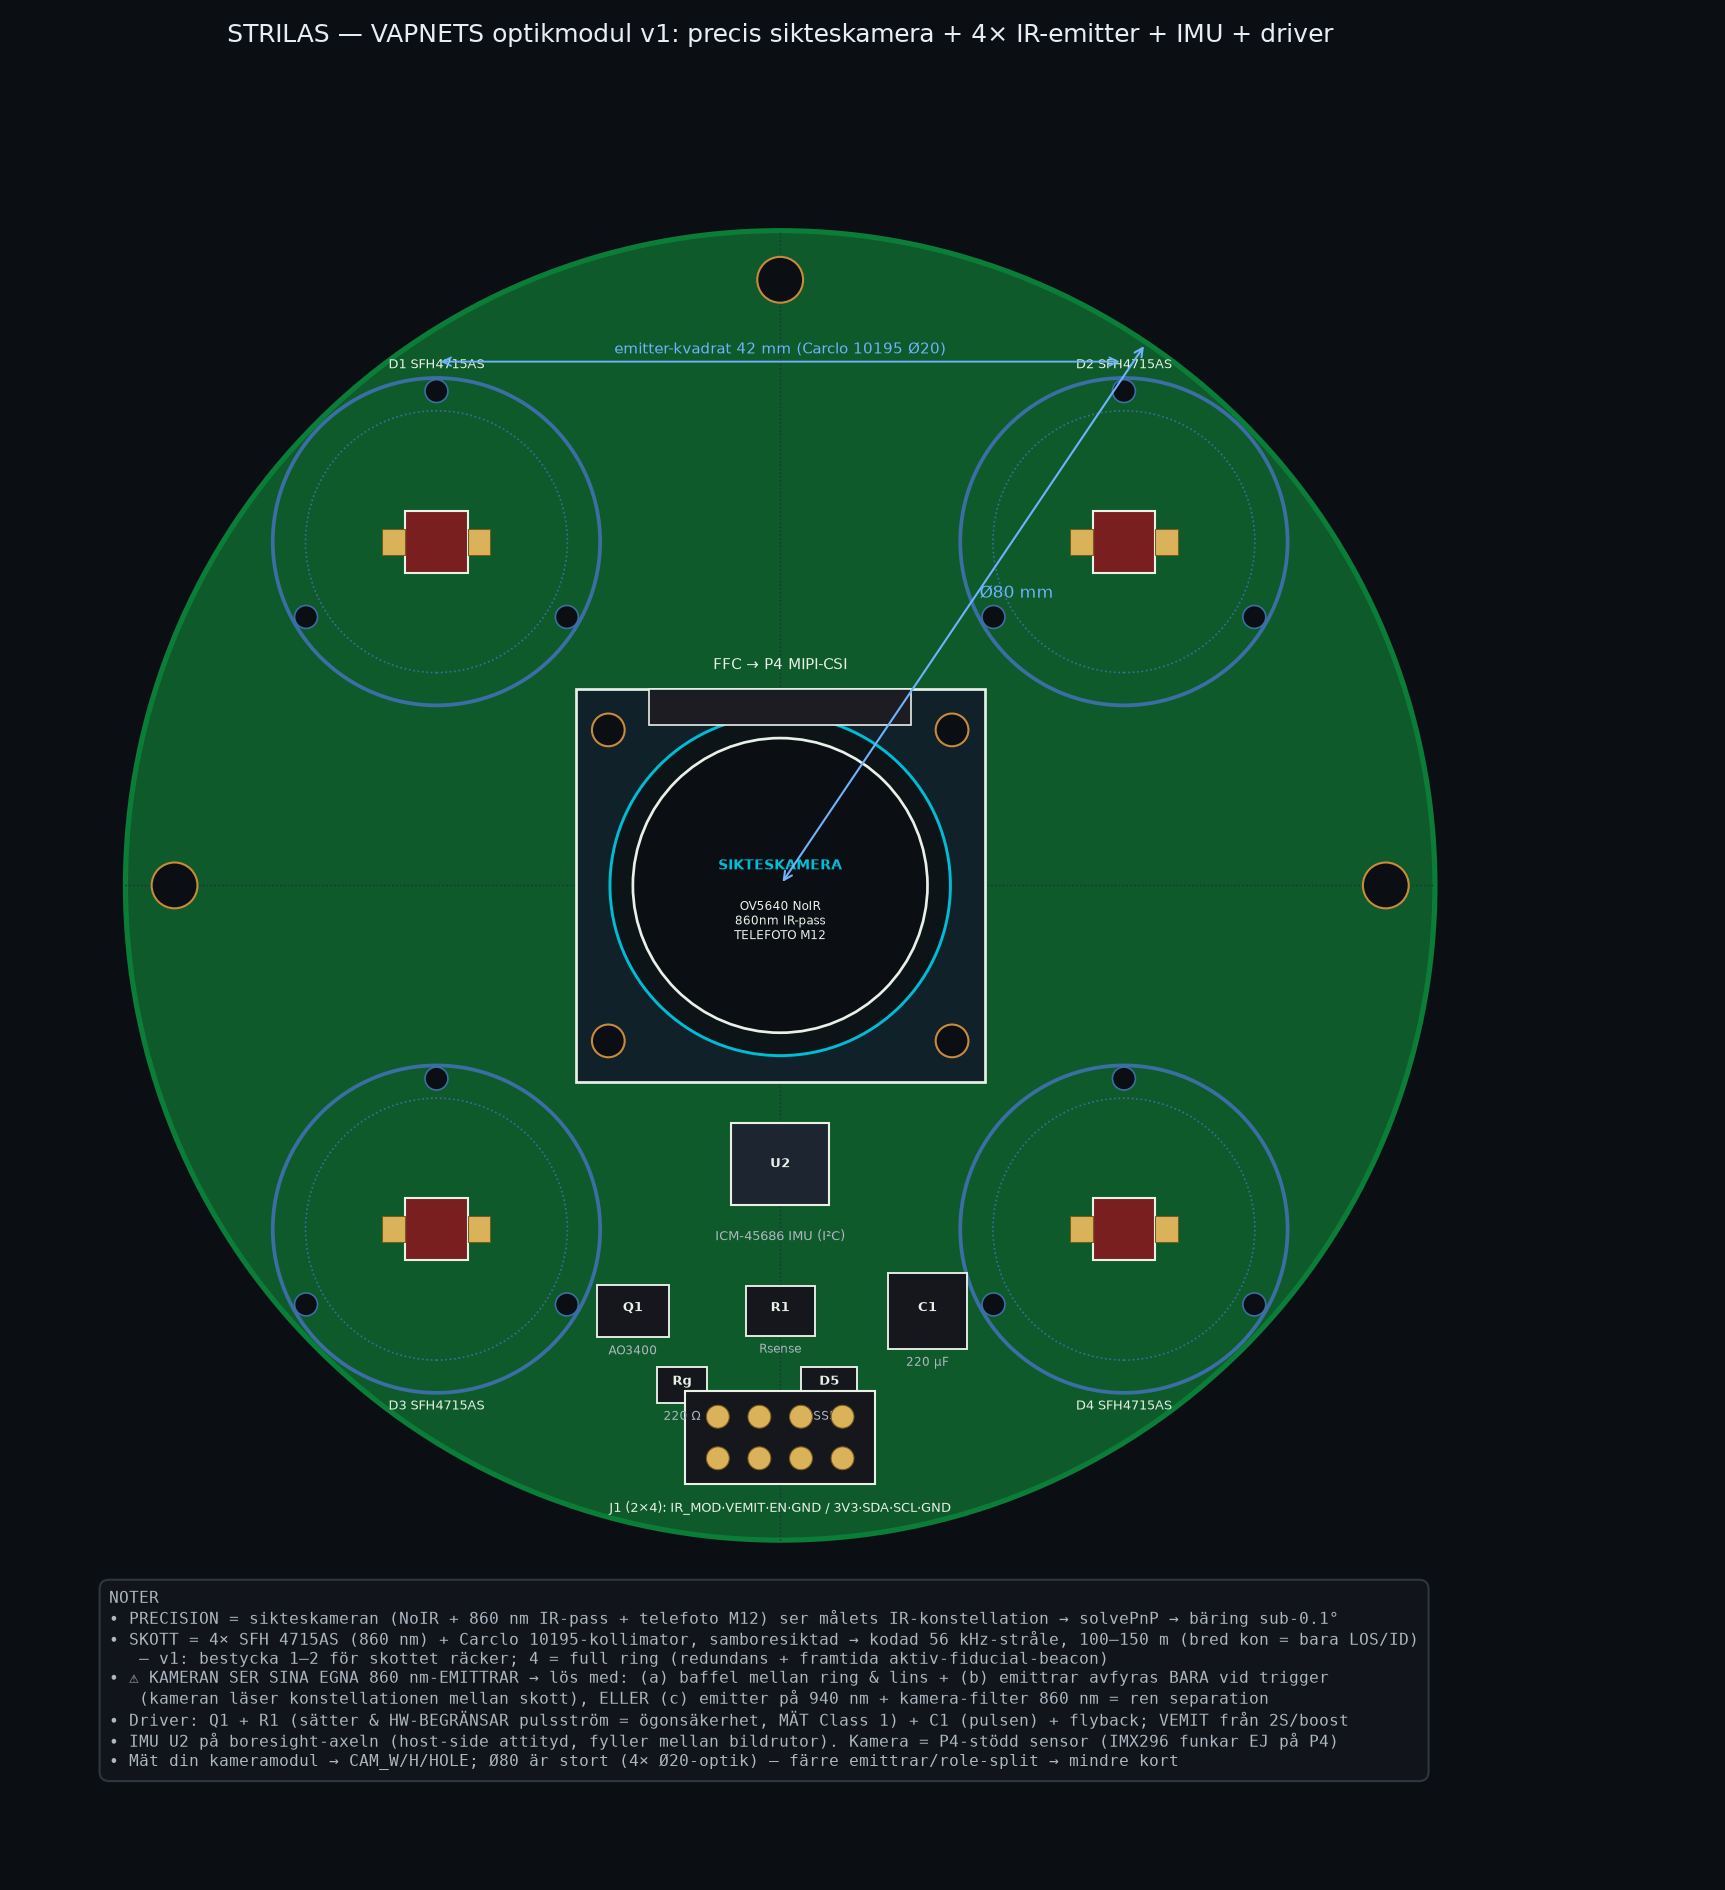
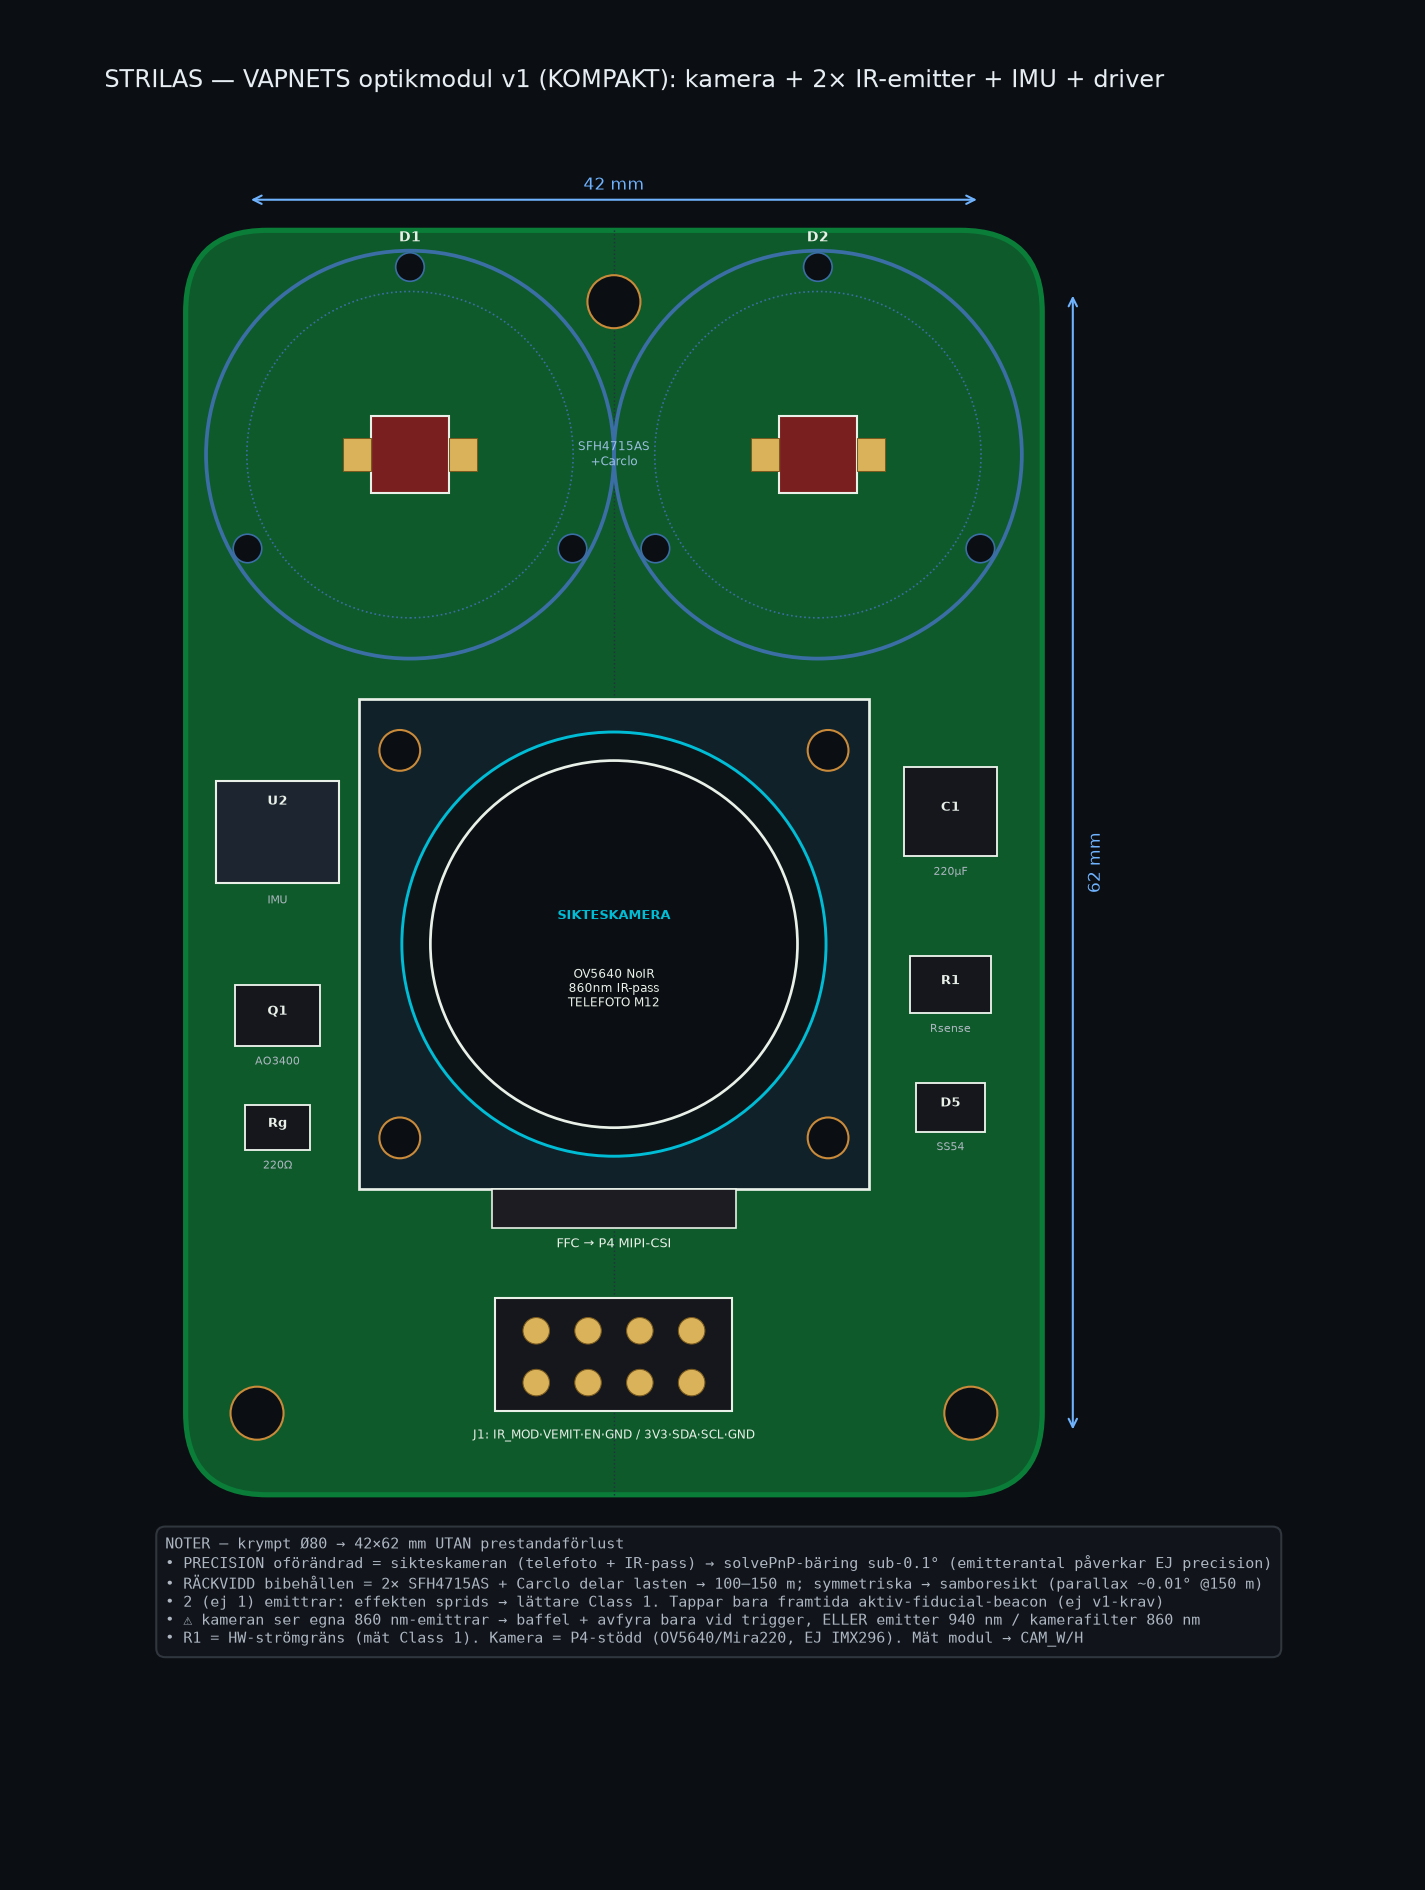
Shrink weapon module to compact 42x62mm (2 emitters), performance preserved
Per request: shrink the board without losing performance. Replaced the Ø80
4-emitter ring with a compact 42x62mm rounded-rect (~48% less area, half the
width): 2x SFH4715AS + Carclo collimators symmetric above the sight camera,
IMU and driver moved into the side strips, 2x4 P4 header at the bottom.
Rationale documented: precision comes from the sight camera (PnP bearing,
unaffected by emitter count); range is preserved because 2 emitters share the
load to 100-150m; staying at 2 (not 1) spreads the optical power so Class 1 is
easier; only the future 4-point active-fiducial-beacon role is dropped (not a
v1 requirement). Co-boresight kept (symmetric emitters, ~0.01deg parallax at
150m). README updated.

diff --git a/hardware/weapon_emitter_layout.py b/hardware/weapon_emitter_layout.py
@@ -1,132 +1,120 @@
 #!/usr/bin/env python3
 """
-STRILAS — VAPNETS optikmodul v1 (KOMPLETT).
+STRILAS — VAPNETS optikmodul v1 (KOMPAKT, 2 emittrar).
 Precis sikteskamera + IR-skottemitter + IMU + driver pa ETT kort.
 
-Topvy (top view), rund fire-control-modul som klampas pa vapnet:
-  - CENTRUM: sikteskamera (OV5640 NoIR + 860 nm IR-pass + TELEFOTO M12) = PRECISIONEN
-    (ser malets IR-konstellation -> solvePnP -> baring sub-0.1 grader)
-  - RING: 4x SFH 4715AS (860 nm) + Carclo 10195 (~20 mm) kollimator = SKOTTSTRALE
-    (LOS + kodad ID, 100-150 m). Samboresiktad: skott foljer kamerans axel.
-  - IMU ICM-45686 (host-side attityd, fyller mellan kamerabildrutor + rekyl)
-  - emitter-driver: N-FET + Rsense (HW-stromgrans = ogonsakerhet) + reservoarcap + flyback
-  - kontakt mot ESP32-P4: IR_MOD, VEMIT, EN, 3V3, GND + I2C (SDA/SCL); kamera via FFC
-
-Placerings-/mekanikritning for iteration, inte fab-fardiga Gerbers.
+Krympt fran 4-emitter-ringen (Ø80) till en kompakt ~42x62 mm modul UTAN att tappa
+prestanda:
+  - PRECISION oforandrad: sikteskameran (OV5640 NoIR + 860 nm IR-pass + TELEFOTO M12)
+    ser malets IR-konstellation -> solvePnP -> baring sub-0.1 grader.
+  - RACKVIDD bibehallen: 2x SFH 4715AS (860 nm) + Carclo-kollimator delar effektlasten
+    -> 100-150 m. Symmetriska ovanfor kameran => samboresikt (parallax ~0.01 grader @150 m).
+  - 2 (inte 1) emittrar => effekten sprids => lattare Class 1 an en hardkord enskild kalla.
+  - Tappar bara: framtida aktiv-fiducial-beacon (4-punkt) + lite redundans. Ej v1-krav.
+  - IMU ICM-45686 + emitter-driver (N-FET + Rsense HW-stromgrans + cap + flyback) ombord.
 """
 import numpy as np
 import matplotlib.pyplot as plt
-from matplotlib.patches import Circle, Rectangle
+from matplotlib.patches import Circle, Rectangle, FancyBboxPatch
 
-BOARD_R   = 40.0           # Ø80 mm (stort: 4x Ø20 optik runt en 25x24 kamera)
-EMIT_OFF  = 21.0           # emitter-position (+/-21, +/-21)
-LENS_R    = 10.0           # Carclo 10195 ~Ø20 mm
-CAM_W, CAM_H = 25.0, 24.0  # OV5640-modul (mat din egen!)
-CAM_BARREL = 9.0           # telefoto-M12-barrel radie (Ø18)
-CAM_HOLE_X, CAM_HOLE_Y = 21.0, 19.0
+BW, BH    = 42.0, 62.0      # kort 42 x 62 mm
+EMIT_X, EMIT_Y = 10.0, 20.0 # 2 emittrar: (+/-10, +20)
+LENS_R    = 10.0            # Carclo 10195 ~Ø20
+CAM_W, CAM_H = 25.0, 24.0   # OV5640-modul (mat din egen!)
+CAM_CY    = -4.0            # kamera-centrum y
+CAM_BARREL = 9.0
 
 GREEN, GREEN_ED = "#0e5a2a", "#0a7d39"
 PAD, SILK, CUT  = "#d9b25a", "#e8f0e8", "#0b0e12"
 IRC, LENSC, CAMC = "#7a1f1f", "#3a6ea5", "#00bcd4"
 
-fig, ax = plt.subplots(figsize=(11.5, 12.6))
+fig, ax = plt.subplots(figsize=(9.5, 12.6))
 ax.set_aspect("equal"); ax.set_facecolor("#0b0e12"); fig.patch.set_facecolor("#0b0e12")
 
-# ---- kort + samboresikt-kors ----
-ax.add_patch(Circle((0, 0), BOARD_R, facecolor=GREEN, edgecolor=GREEN_ED, lw=2.5, zorder=1))
-ax.plot([-BOARD_R, BOARD_R], [0, 0], color="#243044", lw=0.7, ls=":", zorder=1)
-ax.plot([0, 0], [-BOARD_R, BOARD_R], color="#243044", lw=0.7, ls=":", zorder=1)
+# ---- kort-outline (rundad rektangel) + samboresikt-axel ----
+ax.add_patch(FancyBboxPatch((-BW/2+3, -BH/2+3), BW-6, BH-6,
+             boxstyle="round,pad=3,rounding_size=4", facecolor=GREEN, edgecolor=GREEN_ED, lw=2.5, zorder=1))
+ax.plot([0, 0], [-BH/2, BH/2], color="#243044", lw=0.7, ls=":", zorder=1)
 
 # ---- central sikteskamera (telefoto) ----
-ax.add_patch(Rectangle((-CAM_W/2, -CAM_H/2), CAM_W, CAM_H, facecolor="#10212a",
-                       edgecolor=SILK, lw=1.3, zorder=3))
-ax.add_patch(Circle((0, 0), CAM_BARREL+1.4, facecolor="#0c1418", edgecolor=CAMC, lw=1.4, zorder=4))
-ax.add_patch(Circle((0, 0), CAM_BARREL, facecolor=CUT, edgecolor=SILK, lw=1.3, zorder=5))
-ax.text(0, 1.2, "SIKTESKAMERA", ha="center", va="center", color=CAMC, fontsize=6.6, fontweight="bold", zorder=6)
-ax.text(0, -2.2, "OV5640 NoIR\n860nm IR-pass\nTELEFOTO M12", ha="center", va="center", color=SILK, fontsize=5.8, zorder=6)
+ax.add_patch(Rectangle((-CAM_W/2, CAM_CY-CAM_H/2), CAM_W, CAM_H, facecolor="#10212a", edgecolor=SILK, lw=1.3, zorder=3))
+ax.add_patch(Circle((0, CAM_CY), CAM_BARREL+1.4, facecolor="#0c1418", edgecolor=CAMC, lw=1.4, zorder=4))
+ax.add_patch(Circle((0, CAM_CY), CAM_BARREL, facecolor=CUT, edgecolor=SILK, lw=1.3, zorder=5))
+ax.text(0, CAM_CY+1.4, "SIKTESKAMERA", ha="center", va="center", color=CAMC, fontsize=6.4, fontweight="bold", zorder=6)
+ax.text(0, CAM_CY-2.2, "OV5640 NoIR\n860nm IR-pass\nTELEFOTO M12", ha="center", va="center", color=SILK, fontsize=5.6, zorder=6)
 for sx in (-1, 1):
     for sy in (-1, 1):
-        ax.add_patch(Circle((sx*CAM_HOLE_X/2, sy*CAM_HOLE_Y/2), 1.0, facecolor=CUT, edgecolor="#c98a3a", lw=1.0, zorder=6))
-ax.add_patch(Rectangle((-8, CAM_H/2 - 2.2), 16, 2.2, facecolor="#1c1c22", edgecolor=SILK, lw=0.8, zorder=4))
-ax.text(0, CAM_H/2 + 1.0, "FFC → P4 MIPI-CSI", ha="center", va="bottom", color=SILK, fontsize=7, zorder=6)
+        ax.add_patch(Circle((sx*10.5, CAM_CY+sy*9.5), 1.0, facecolor=CUT, edgecolor="#c98a3a", lw=1.0, zorder=6))
+ax.add_patch(Rectangle((-6, CAM_CY-CAM_H/2-1.9), 12, 1.9, facecolor="#1c1c22", edgecolor=SILK, lw=0.8, zorder=4))
+ax.text(0, CAM_CY-CAM_H/2-2.4, "FFC → P4 MIPI-CSI", ha="center", va="top", color=SILK, fontsize=6.0, zorder=6)
 
-# ---- 4x SFH 4715AS (860 nm) + Carclo-kollimator (skottstrale) ----
+# ---- 2x SFH 4715AS (860 nm) + Carclo-kollimator, symmetriskt ovanfor kameran ----
 def draw_emitter(ax, x, y, idx):
     ax.add_patch(Circle((x, y), LENS_R, facecolor="none", edgecolor=LENSC, lw=1.8, zorder=5))
     ax.add_patch(Circle((x, y), LENS_R-2.0, facecolor="none", edgecolor=LENSC, lw=0.8, ls=":", zorder=5))
-    # 3 Carclo-ben (pins) i PCB
     for ba in (90, 210, 330):
         bx, by = x + (LENS_R-0.8)*np.cos(np.deg2rad(ba)), y + (LENS_R-0.8)*np.sin(np.deg2rad(ba))
         ax.add_patch(Circle((bx, by), 0.7, facecolor=CUT, edgecolor=LENSC, lw=0.8, zorder=6))
     ax.add_patch(Rectangle((x-1.9, y-1.9), 3.8, 3.8, facecolor=IRC, edgecolor=SILK, lw=1.0, zorder=6))
     ax.add_patch(Rectangle((x-3.3, y-0.8), 1.4, 1.6, facecolor=PAD, edgecolor="#7a5a1e", lw=0.5, zorder=6))
     ax.add_patch(Rectangle((x+1.9, y-0.8), 1.4, 1.6, facecolor=PAD, edgecolor="#7a5a1e", lw=0.5, zorder=6))
-    ax.text(x, y + (LENS_R+0.4 if y > 0 else -LENS_R-0.4), f"D{idx} SFH4715AS",
-            ha="center", va="bottom" if y > 0 else "top", color=SILK, fontsize=6.4, zorder=6)
+    ax.text(x, y+LENS_R+0.3, f"D{idx}", ha="center", va="bottom", color=SILK, fontsize=6.6, fontweight="bold", zorder=6)
 
-for i, (x, y) in enumerate([(-EMIT_OFF, EMIT_OFF), (EMIT_OFF, EMIT_OFF),
-                            (-EMIT_OFF, -EMIT_OFF), (EMIT_OFF, -EMIT_OFF)]):
-    draw_emitter(ax, x, y, i+1)
+draw_emitter(ax, -EMIT_X, EMIT_Y, 1)
+draw_emitter(ax,  EMIT_X, EMIT_Y, 2)
+ax.text(0, EMIT_Y, "SFH4715AS\n+Carclo", ha="center", va="center", color="#9bbfe0", fontsize=5.6, zorder=6)
 
-# ---- IMU (under kameran, pa boresight-axeln) ----
-ax.add_patch(Rectangle((-3, -19.5), 6, 5, facecolor="#1d2530", edgecolor=SILK, lw=1.0, zorder=5))
-ax.text(0, -17.0, "U2", ha="center", va="center", color=SILK, fontsize=6.4, fontweight="bold", zorder=6)
-ax.text(0, -21.0, "ICM-45686 IMU (I²C)", ha="center", va="top", color="#aeb7c2", fontsize=6.0, zorder=6)
-
-# ---- emitter-driver (fria center-botten) ----
-def part(ax, x, y, w, h, ref, val):
+# ---- IMU + driver i sidoremsorna (vid sidan av kameran) ----
+def part(ax, x, y, w, h, ref, val, vy="top"):
     ax.add_patch(Rectangle((x-w/2, y-h/2), w, h, facecolor="#15171c", edgecolor=SILK, lw=0.9, zorder=5))
-    ax.text(x, y+0.2, ref, ha="center", va="center", color=SILK, fontsize=6.2, fontweight="bold", zorder=6)
-    ax.text(x, y-h/2-0.5, val, ha="center", va="top", color="#aeb7c2", fontsize=5.6, zorder=6)
-part(ax, -9.0, -26.0, 4.4, 3.2, "Q1", "AO3400")
-part(ax,  0.0, -26.0, 4.2, 3.0, "R1", "Rsense")
-part(ax,  9.0, -26.0, 4.8, 4.6, "C1", "220 µF")
-part(ax, -6.0, -30.5, 3.0, 2.2, "Rg", "220 Ω")
-part(ax,  3.0, -30.5, 3.4, 2.2, "D5", "SS54")
+    ax.text(x, y+0.2, ref, ha="center", va="center", color=SILK, fontsize=6.0, fontweight="bold", zorder=6)
+    yy = y-h/2-0.5 if vy == "top" else y+h/2+0.5
+    ax.text(x, yy, val, ha="center", va=vy, color="#aeb7c2", fontsize=5.2, zorder=6)
+# vänster remsa: IMU + Q1 + Rg
+ax.add_patch(Rectangle((-16.5-3, 1.5-2.5), 6, 5, facecolor="#1d2530", edgecolor=SILK, lw=1.0, zorder=5))
+ax.text(-16.5, 3.0, "U2", ha="center", va="center", color=SILK, fontsize=6.0, fontweight="bold", zorder=6)
+ax.text(-16.5, -1.6, "IMU", ha="center", va="top", color="#aeb7c2", fontsize=5.2, zorder=6)
+part(ax, -16.5, -7.5, 4.2, 3.0, "Q1", "AO3400")
+part(ax, -16.5, -13.0, 3.2, 2.2, "Rg", "220Ω")
+# höger remsa: C1 + R1 + D5
+part(ax, 16.5, 2.5, 4.6, 4.4, "C1", "220µF")
+part(ax, 16.5, -6.0, 4.0, 2.8, "R1", "Rsense")
+part(ax, 16.5, -12.0, 3.4, 2.4, "D5", "SS54")
 
-# ---- kontakt mot P4 (2x4) ----
-hy = -35.0; hx0 = -1.5*2.54
-ax.add_patch(Rectangle((hx0-2, hy-1.6), 2.54*3+4, 2.54+3.2, facecolor="#15171c", edgecolor=SILK, lw=1.0, zorder=5))
-top = ["IR_MOD", "VEMIT", "EN", "GND"]; bot = ["3V3", "SDA", "SCL", "GND"]
+# ---- kontakt mot P4 (2x4), botten ----
+hy = -25.5; hx0 = -1.5*2.54
+ax.add_patch(Rectangle((hx0-2, hy-1.4), 2.54*3+4, 2.54+3.0, facecolor="#15171c", edgecolor=SILK, lw=1.0, zorder=5))
 for c in range(4):
-    ax.add_patch(Circle((hx0 + c*2.54, hy+2.54), 0.7, facecolor=PAD, edgecolor="#7a5a1e", lw=0.5, zorder=6))
-    ax.add_patch(Circle((hx0 + c*2.54, hy), 0.7, facecolor=PAD, edgecolor="#7a5a1e", lw=0.5, zorder=6))
-ax.text(hx0 + 1.5*2.54, hy-2.6, "J1 (2×4): IR_MOD·VEMIT·EN·GND / 3V3·SDA·SCL·GND",
-        ha="center", va="top", color=SILK, fontsize=6.2, zorder=6)
+    ax.add_patch(Circle((hx0 + c*2.54, hy+2.54), 0.65, facecolor=PAD, edgecolor="#7a5a1e", lw=0.5, zorder=6))
+    ax.add_patch(Circle((hx0 + c*2.54, hy), 0.65, facecolor=PAD, edgecolor="#7a5a1e", lw=0.5, zorder=6))
+ax.text(0, hy-2.3, "J1: IR_MOD·VEMIT·EN·GND / 3V3·SDA·SCL·GND", ha="center", va="top", color=SILK, fontsize=5.6, zorder=6)
 
-# ---- board-monteringshal (N/E/V) ----
-for x, y in [(0, 37), (37, 0), (-37, 0)]:
-    ax.add_patch(Circle((x, y), 1.4, facecolor=CUT, edgecolor="#c98a3a", lw=1.0, zorder=4))
+# ---- monteringshal ----
+for x, y in [(0, 27.5), (-17.5, -27), (17.5, -27)]:
+    ax.add_patch(Circle((x, y), 1.3, facecolor=CUT, edgecolor="#c98a3a", lw=1.0, zorder=4))
 
 # ---- mattlinjer ----
-th = np.deg2rad(56)
-ax.annotate("", xy=(BOARD_R*np.cos(th), BOARD_R*np.sin(th)), xytext=(0, 0),
+ax.annotate("", xy=(BW/2-3, BH/2+1.5), xytext=(-BW/2+3, BH/2+1.5),
             arrowprops=dict(arrowstyle="<->", color="#6fb3ff", lw=1.0), zorder=8)
-ax.text(BOARD_R*0.5*np.cos(th)+1, BOARD_R*0.5*np.sin(th)+1, "Ø80 mm", color="#6fb3ff", fontsize=8, zorder=8)
-ax.annotate("", xy=(EMIT_OFF, EMIT_OFF+11), xytext=(-EMIT_OFF, EMIT_OFF+11),
-            arrowprops=dict(arrowstyle="<->", color="#6fb3ff", lw=0.9), zorder=8)
-ax.text(0, EMIT_OFF+11.5, "emitter-kvadrat 42 mm (Carclo 10195 Ø20)", ha="center", color="#6fb3ff", fontsize=7, zorder=8)
+ax.text(0, BH/2+2.0, "42 mm", ha="center", color="#6fb3ff", fontsize=8, zorder=8)
+ax.annotate("", xy=(BW/2+1.5, BH/2-3), xytext=(BW/2+1.5, -BH/2+3),
+            arrowprops=dict(arrowstyle="<->", color="#6fb3ff", lw=1.0), zorder=8)
+ax.text(BW/2+2.2, 0, "62 mm", ha="left", va="center", color="#6fb3ff", fontsize=8, rotation=90, zorder=8)
 
-# ---- titel + noter ----
-ax.set_title("STRILAS — VAPNETS optikmodul v1: precis sikteskamera + 4× IR-emitter + IMU + driver",
-             color="#e6edf3", fontsize=12, pad=12)
+ax.set_title("STRILAS — VAPNETS optikmodul v1 (KOMPAKT): kamera + 2× IR-emitter + IMU + driver",
+             color="#e6edf3", fontsize=11.5, pad=10)
 notes = (
-    "NOTER\n"
-    "• PRECISION = sikteskameran (NoIR + 860 nm IR-pass + telefoto M12) ser målets IR-konstellation → solvePnP → bäring sub-0.1°\n"
-    "• SKOTT = 4× SFH 4715AS (860 nm) + Carclo 10195-kollimator, samboresiktad → kodad 56 kHz-stråle, 100–150 m (bred kon = bara LOS/ID)\n"
-    "   – v1: bestycka 1–2 för skottet räcker; 4 = full ring (redundans + framtida aktiv-fiducial-beacon)\n"
-    "• ⚠️ KAMERAN SER SINA EGNA 860 nm-EMITTRAR → lös med: (a) baffel mellan ring & lins + (b) emittrar avfyras BARA vid trigger\n"
-    "   (kameran läser konstellationen mellan skott), ELLER (c) emitter på 940 nm + kamera-filter 860 nm = ren separation\n"
-    "• Driver: Q1 + R1 (sätter & HW-BEGRÄNSAR pulsström = ögonsäkerhet, MÄT Class 1) + C1 (pulsen) + flyback; VEMIT från 2S/boost\n"
-    "• IMU U2 på boresight-axeln (host-side attityd, fyller mellan bildrutor). Kamera = P4-stödd sensor (IMX296 funkar EJ på P4)\n"
-    "• Mät din kameramodul → CAM_W/H/HOLE; Ø80 är stort (4× Ø20-optik) — färre emittrar/role-split → mindre kort"
+    "NOTER — krympt Ø80 → 42×62 mm UTAN prestandaförlust\n"
+    "• PRECISION oförändrad = sikteskameran (telefoto + IR-pass) → solvePnP-bäring sub-0.1° (emitterantal påverkar EJ precision)\n"
+    "• RÄCKVIDD bibehållen = 2× SFH4715AS + Carclo delar lasten → 100–150 m; symmetriska → samboresikt (parallax ~0.01° @150 m)\n"
+    "• 2 (ej 1) emittrar: effekten sprids → lättare Class 1. Tappar bara framtida aktiv-fiducial-beacon (ej v1-krav)\n"
+    "• ⚠️ kameran ser egna 860 nm-emittrar → baffel + avfyra bara vid trigger, ELLER emitter 940 nm / kamerafilter 860 nm\n"
+    "• R1 = HW-strömgräns (mät Class 1). Kamera = P4-stödd (OV5640/Mira220, EJ IMX296). Mät modul → CAM_W/H"
 )
-ax.text(-BOARD_R-1, -BOARD_R-3, notes, ha="left", va="top", color="#aeb7c2",
-        fontsize=7.6, family="monospace", zorder=9,
-        bbox=dict(boxstyle="round,pad=0.6", fc="#11151b", ec="#30363d"))
+ax.text(-BW/2-1, -BH/2-2, notes, ha="left", va="top", color="#aeb7c2", fontsize=7.2,
+        family="monospace", zorder=9, bbox=dict(boxstyle="round,pad=0.6", fc="#11151b", ec="#30363d"))
 
-lim = BOARD_R + 5
-ax.set_xlim(-lim, lim); ax.set_ylim(-lim-15, lim+5); ax.axis("off")
+ax.set_xlim(-BW/2-8, BW/2+10); ax.set_ylim(-BH/2-16, BH/2+6); ax.axis("off")
 plt.tight_layout()
 out = "hardware/weapon-emitter-camera-860nm.png"
 plt.savefig(out, dpi=150, facecolor=fig.get_facecolor())

diff --git a/hardware/README.md b/hardware/README.md
@@ -9,35 +9,36 @@ Två fysiskt skilda noder, två kort:
 
 ---
 
-## 1. Vapnets optikmodul v1 — precis sikteskamera + IR-emitter + IMU + driver
+## 1. Vapnets optikmodul v1 (KOMPAKT) — sikteskamera + 2× IR-emitter + IMU + driver
 
 ![Vapnets optikmodul](weapon-emitter-camera-860nm.png)
 
 **Allt vapnet behöver** på ett kort: precist sikte, skottstråle, attityd och driver.
-Genereras av [`weapon_emitter_layout.py`](weapon_emitter_layout.py).
+Krympt från Ø80 (4 emittrar) till **42×62 mm** *utan prestandaförlust*. Genereras av
+[`weapon_emitter_layout.py`](weapon_emitter_layout.py).
 
 **Precisionen** kommer från **sikteskameran** (centrum) som mäter bäringen till målets
-IR-konstellation → sub-0,1° (se `../docs/level3-ballistic-architecture.md` §3.2).
-**Skottet** är de 4 kollimerade emittrarna, **samboresiktade** runt kameran → strålen
-följer siktaxeln (bred kon = bara LOS/ID, inte hitbox).
+IR-konstellation → sub-0,1° (se `../docs/level3-ballistic-architecture.md` §3.2) — den är
+**oförändrad oavsett emitterantal**. **Skottet** är de 2 kollimerade emittrarna, symmetriskt
+ovanför kameran → **samboresikt** (parallax ~0,01° @150 m; bred kon = bara LOS/ID).
 
 ### Vad som sitter på kortet
 
 | Ref | Del | Roll |
 |---|---|---|
 | (mitten) | **Sikteskamera: OV5640 NoIR + 860 nm IR-pass + telefoto M12** | **PRECISION** — ser konstellationen → solvePnP → bäring |
-| D1–D4 | **ams-OSRAM SFH 4715AS** (860 nm) ×4 + **Carclo 10195** (~Ø20) kollimator | **skott** — kodad 56 kHz-stråle, 100–150 m |
+| D1–D2 | **ams-OSRAM SFH 4715AS** (860 nm) ×2 + **Carclo 10195** (~Ø20) kollimator | **skott** — kodad 56 kHz-stråle, 100–150 m |
 | U2 | **TDK ICM-45686 IMU** (I²C) | attityd mellan kamerabildrutor + rekyl |
-| Q1 | **AO3400 N-FET** | switchar emitter-strängen på 56 kHz |
-| R1 | **Rsense ~1–3 Ω 2 W** | **sätter & HW-begränsar pulsströmmen = ögonsäkerhet** |
+| Q1 / R1 | **AO3400 N-FET** / **Rsense ~1–3 Ω 2 W** | switchar + **sätter & HW-begränsar pulsström = ögonsäkerhet** |
 | C1 / Rg / D5 | 220 µF reservoar / 220 Ω gate / SS54 flyback | levererar pulsen + ren switchning |
 | J1 | **2×4: IR_MOD·VEMIT·EN·GND / 3V3·SDA·SCL·GND** | mot ESP32-P4 (kamera via FFC) |
 
-### Mått & el
+### Mått & el — och varför prestandan hålls
 
-- Kort **Ø80 mm**, emitter-kvadrat **42 mm** (4× Carclo Ø20-optik runt en 25×24-kamera), 3× M2.5.
-- **4 LED i serie** → mata **VEMIT** från 2S-batteri / boost (~12 V); **IR_MOD** = 56 kHz från RMT; **IMU** på I²C.
-- **Ø80 är stort** p.g.a. fyra Ø20-optiker. Vill du krympa: bestycka **1–2 emittrar** (räcker för skottet) eller role-split.
+- Kort **42 × 62 mm** (rundad rektangel), 3× M2.5. **~48 % mindre yta än Ø80**, halva bredden.
+- **2 LED i serie** delar effektlasten → 100–150 m bibehålls; mata **VEMIT** från 2S/boost (~12 V).
+- **Precision = kameran** (emitterantal påverkar inte). **2 (ej 1) emittrar** sprider effekten →
+  *lättare* Class 1. Enda som tappas: framtida **aktiv-fiducial-beacon** (4-punkt) — ej v1-krav.
 
 ### ⚠️ Kameran får inte blända sig själv
 